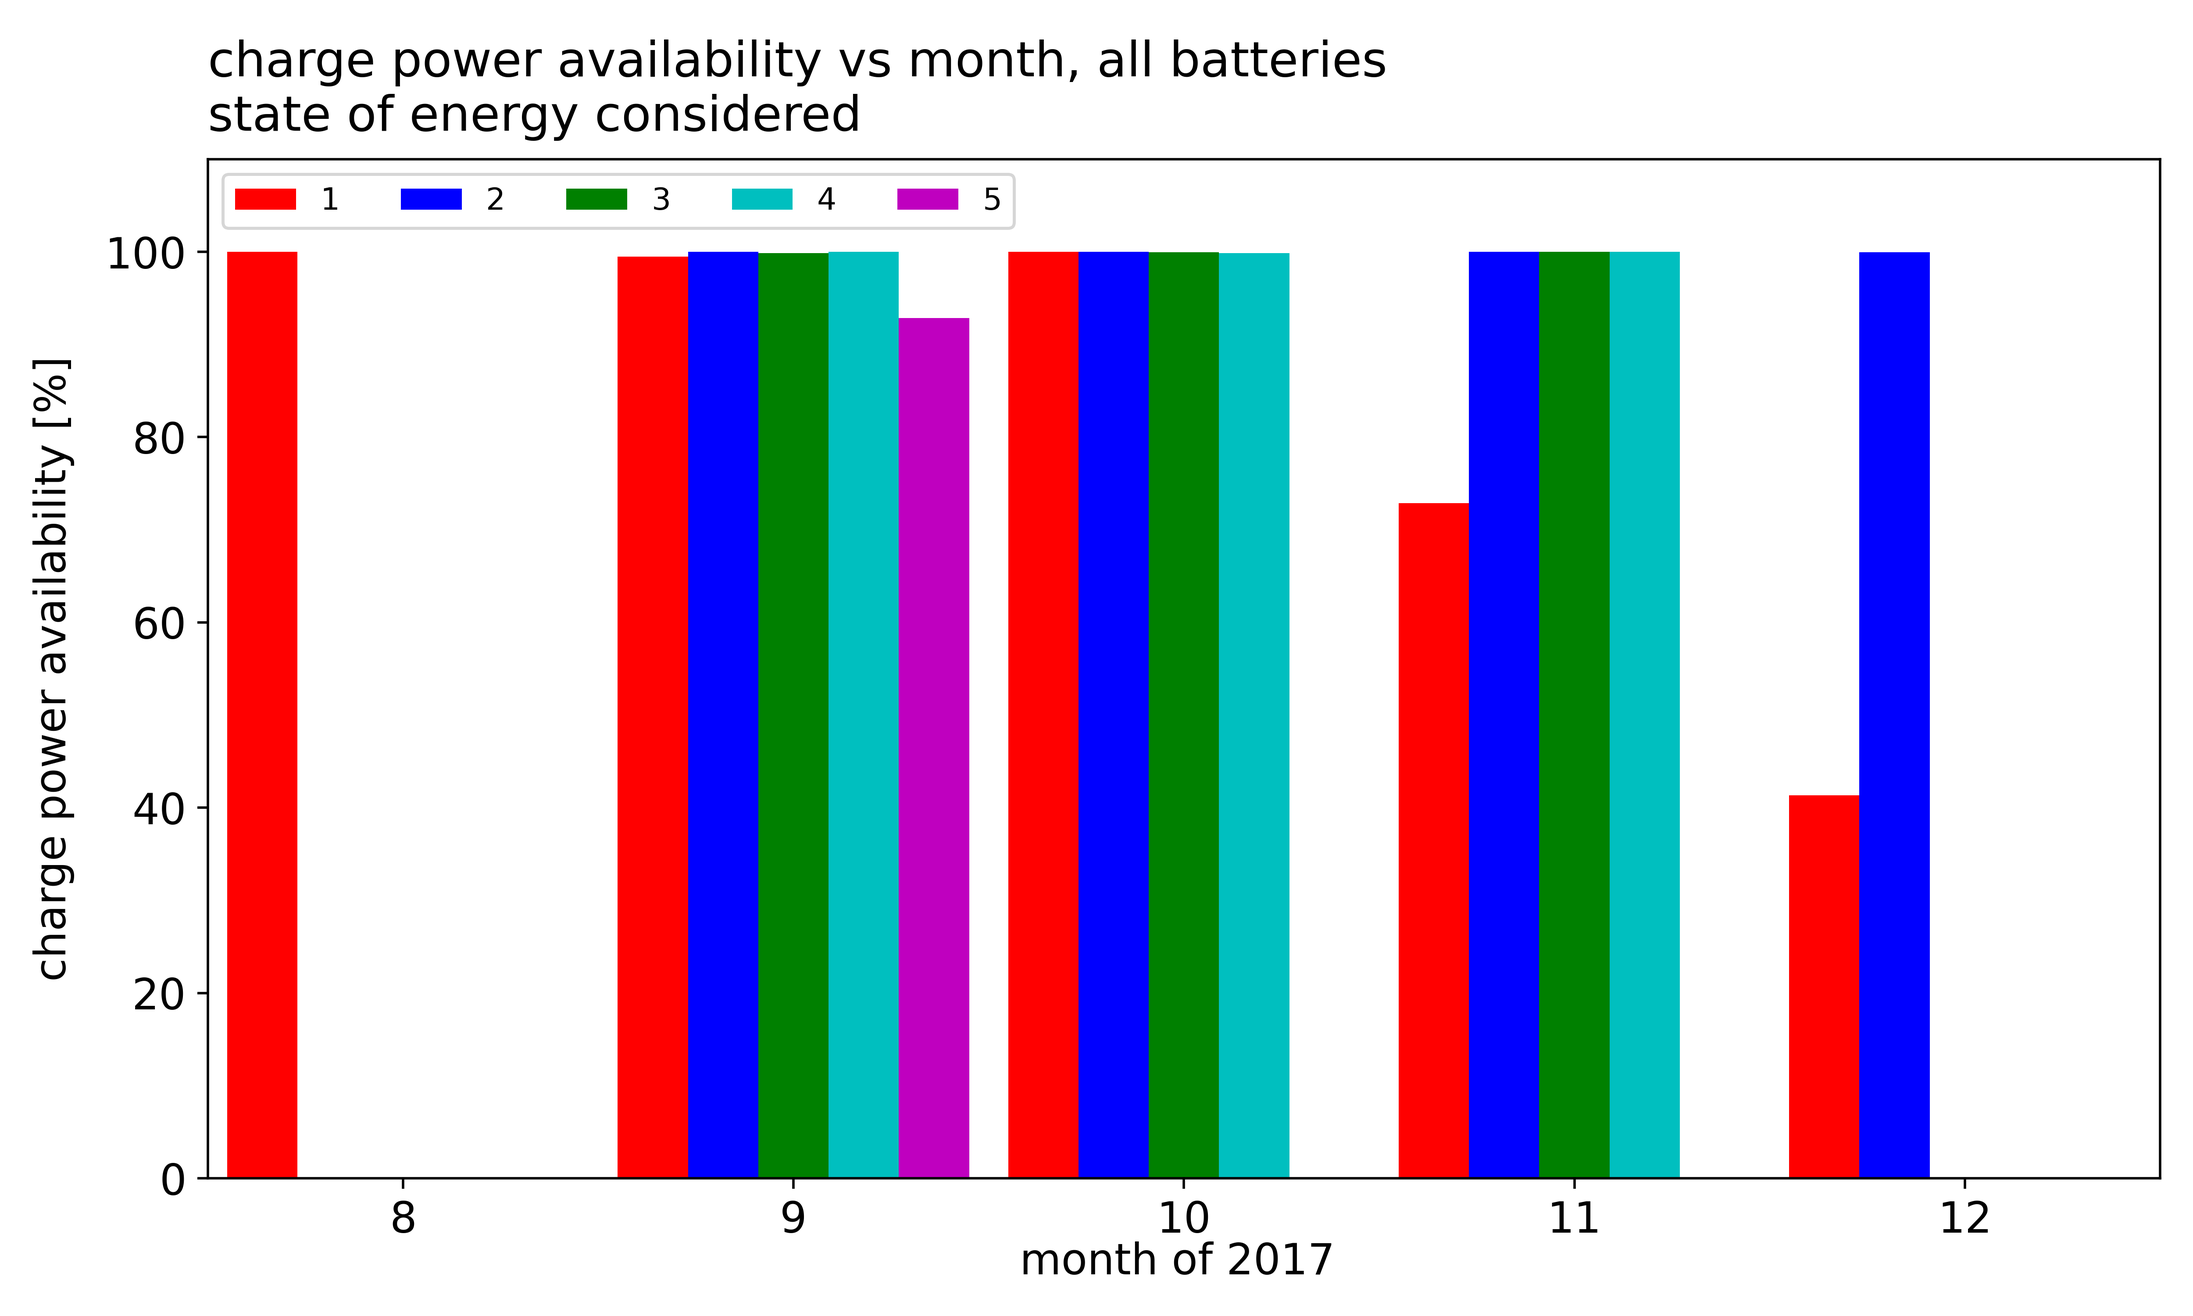
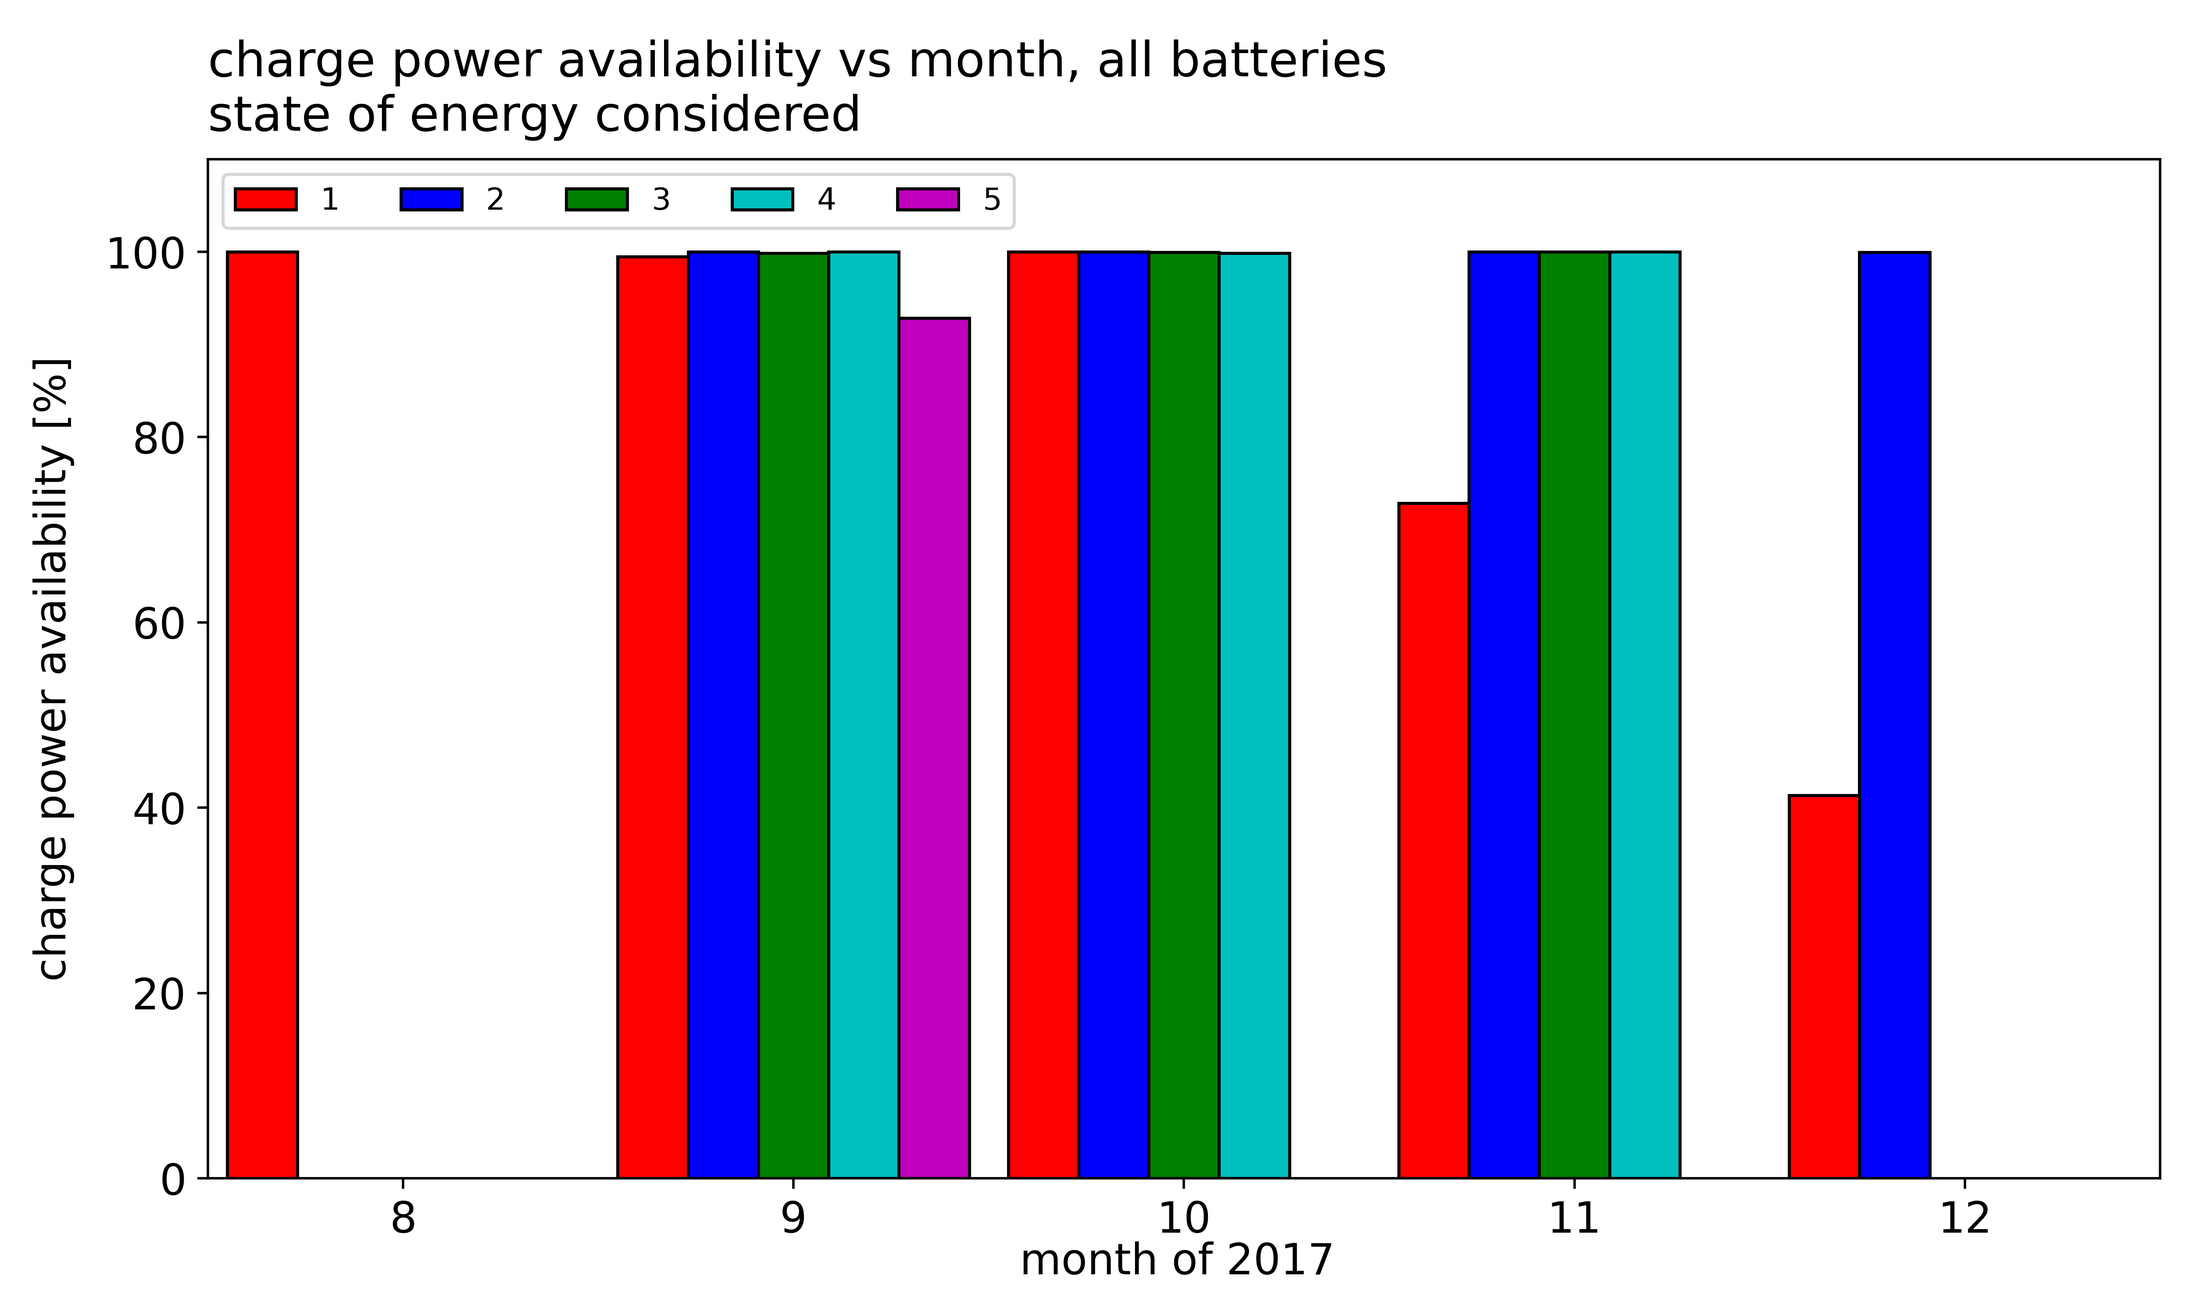
clean up code

diff --git a/src/battery_analysis.py b/src/battery_analysis.py
@@ -6,12 +6,6 @@ author: Craig Smith, craig.matthew.smith@gmail.com
 usage: ./src/run.sh n  where n is the number of batteries to analyze [1-5]
 repo: https://github.com/weathertrader/battery_charge
 '''
-# TO DO 
-# 1 hr  readme, including documentation on da and results and images
-# 1 hr  refactor and clean up 
-# 1 hr  run from cli using bash script
-
-
 
 import os
 import sys
@@ -31,6 +25,11 @@ matplotlib.use('Agg')
 
 def read_battery_file(input_file):
 
+    # data dictionary    
+    # energy_left      PW_EnergyRemaining  - energy left in batter [Wh]
+    # energy_full      PW_FullPackEnergyAvailable - total energy capacity of battery [Wh]
+    # charge_avail     PW_AvailableChargePower - max power capacity that battery can charge at this time [W]
+    
     # read data into empty arrays
     dt_epoch_energy_left = []
     dt_epoch_energy_full = []
@@ -39,49 +38,42 @@ def read_battery_file(input_file):
     energy_full = []
     charge_avail = []
     
-    # sys.maxsize
+    # initialize min and max dates 
     dt_epoch_min = sys.maxsize
     dt_epoch_max = -sys.maxsize
     
     batt_id = int(input_file.split('/')[1].split('.')[0])
     
-    # PW_EnergyRemaining  - energy left in batter [Wh]
     with open(input_file, "r", encoding="utf-8") as csv_read_file: # force utf-8 encoding 
         next(csv_read_file)
         for row in csv.reader(csv_read_file):
-            # here check number of entries per row
             n_fields = len(row)
-            #print ('%s n_fields found' %(n_fields))
-    
             # check that battery id never changes 
-            #print(row)
             if not int(row[0]) == batt_id:
                 print ('ERROR - battery id changed')
                 sys.exit()
+            # check that input data has correct number of fields
             if n_fields != 4:
                 print ('ERROR - incorrect number of fields in row %s ' %(row))
-                next(csv_read_file)
-                # sys.exit()
-                
+                next(csv_read_file)                
+            # check that variable is well defined
             field_read = row[2]
             if (field_read == ''):
-                    #print ('ERROR - missing data %s ' %(row))
                     next(csv_read_file)
-                    # sys.exit()
-            else:
-                    
+            else:                    
                 #check if this in in there already or not
                 #dt_epoch_energy_left
-                if (int(row[1])/1000 in dt_epoch_energy_left):
-                    print('error duplicated value1')
-                    sys.exit()
-                if (int(row[1])/1000 in dt_epoch_energy_full):
-                    print('error duplicated value2')
-                    sys.exit()
-                if (int(row[1])/1000 in dt_epoch_charge_avail):
-                    print('error duplicated value3')
-                    sys.exit()
+                #if (int(row[1])/1000 in dt_epoch_energy_left):
+                #    print('error duplicated value1')
+                #    sys.exit()
+                #if (int(row[1])/1000 in dt_epoch_energy_full):
+                #   print('error duplicated value2')
+                #   sys.exit()
+                #if (int(row[1])/1000 in dt_epoch_charge_avail):
+                #    print('error duplicated value3')
+                #    sys.exit()
                     
+                # accumulate data and timestamp into lists
                 if   field_read == 'PW_EnergyRemaining':
                     # may need to cast to int
                     dt_epoch_energy_left.append(int(row[1])/1000)
@@ -97,12 +89,13 @@ def read_battery_file(input_file):
                 if (int(row[1]) > dt_epoch_max):
                     dt_epoch_max = int(row[1])/1000
                 
-    # print(dt_epoch_min, dt_epoch_max)
+    # print start and end of data set
     dt_min = dt.fromtimestamp(dt_epoch_min)
     dt_max = dt.fromtimestamp(dt_epoch_max)
-    # calculate length of data set and expected number of records 
     # assume UTC for monthly roll ups 
     print('    dt range %s - %s ' %(dt_min.strftime('%Y-%m-%d %H:%M:%S'), dt_max.strftime('%Y-%m-%d %H:%M:%S')))
+
+    # calculate length of data set and expected number of records 
     reports_per_hour_expected = int(60/5) # reports every 5 min
     n_records_expected = (dt_max-dt_min).days * 24 * reports_per_hour_expected \
                        + int((dt_max-dt_min).seconds/3600 * reports_per_hour_expected)
@@ -116,24 +109,7 @@ def read_battery_file(input_file):
     df_energy_left  = pd.DataFrame(energy_left, index=dt_energy_left, columns =['energy_left'])         
     df_energy_full  = pd.DataFrame(energy_full, index=dt_energy_full, columns =['energy_full']) 
     df_charge_avail = pd.DataFrame(charge_avail, index=dt_charge_avail, columns =['charge_avail']) 
-
-    # df_energy_left.get_duplicates()
-    # drop duplicate values 
-    #df_energy_full[df_energy_full.index.duplicated(keep='first')]
-    #df_energy_full[df_energy_full.index.duplicated(keep='last')]
-    #df_energy_full[df_energy_full.index.duplicated(keep=False)]
-    #df_energy_left = df_energy_left.drop_duplicates(keep='first')
-    #df_energy_full = df_energy_full.drop_duplicates(keep='first')
-    #df_charge_avail = df_charge_avail.drop_duplicates(keep='first')
-    #df_energy_left = df_energy_left.drop_duplicates(keep=False)
-    #df_energy_full = df_energy_full.drop_duplicates(keep=False)
-    #df_charge_avail = df_charge_avail.drop_duplicates(keep=False)
-    
-    
-    #df_energy_left.drop_duplicates(keep=False, inplace=True)
-    #df_energy_full.drop_duplicates(keep=False, inplace=True)
-    #df_charge_avail.drop_duplicates(keep=False, inplace=True)
- 
+    # drop duplicate index entries, two values for a single timestamp     
     df_energy_left = df_energy_left.loc[~df_energy_left.index.duplicated(keep=False)]
     df_energy_full = df_energy_full.loc[~df_energy_full.index.duplicated(keep=False)]
     df_charge_avail = df_charge_avail.loc[~df_charge_avail.index.duplicated(keep=False)]
@@ -141,14 +117,6 @@ def read_battery_file(input_file):
     print('    records expected %s found %s %s %s ' %(n_records_expected, len(df_energy_left), len(df_energy_full), len(df_charge_avail)))
     print('    missing %5.2f percent of data ' %(100.0 - 100.0*min(len(df_energy_left), len(df_energy_full), len(df_charge_avail))/n_records_expected))
     
-    #df_energy_left = df_energy_left.loc[~df_energy_left.index.duplicated(keep='first')]
-    #df_energy_full = df_energy_full.loc[~df_energy_full.index.duplicated(keep='first')]
-    #df_charge_avail = df_charge_avail.loc[~df_charge_avail.index.duplicated(keep='first')]
-    
-    #df_energy_full[df_energy_full.index.duplicated(keep=False)]
-    #df_energy_left[df_energy_left.index.duplicated(keep=False)]
-    #df_charge_avail[df_charge_avail.index.duplicated(keep=False)]
-
     # move records to nearest 5 min time, here we assume that time offsets by 30s or 1 min 
     # can be treated as if they were at the same time 
     df_energy_left  = df_energy_left.resample('5min').fillna("pad", limit=1)
@@ -167,22 +135,11 @@ def read_battery_file(input_file):
         sys.exit()
 
     battery_df = df_energy_left.join(df_energy_full).join(df_charge_avail)
-    # len(battery_df)
-    #battery_df.head(20)
-    #battery_df.tail(20)
-    #  how='inner'
-
     # compute state of energy, soe = PW_EnergyRemaining / PW_FullPackEnergyAvailable
-    # soe > 90% is 'starting to get full'
     battery_df['soe'] = 100.0*battery_df['energy_left']/battery_df['energy_full']
-
     return battery_df
 
 def compute_data_availability(battery_df):
-
-    # count total valid records
-    n_records = len(battery_df)
-    n_valid_records = battery_df['charge_avail'].count()
 
     # compute month valid records    
     mo_df = pd.DataFrame(battery_df['soe'].resample("M").count())
@@ -194,11 +151,9 @@ def compute_data_availability(battery_df):
     # compute data availability vs month, rough estimate is fine for now
     n_records_expected_per_month = 30*24*12 # could use actual days per month instead 
     mo_df['data_availability'] = 100.0*mo_df['n_valid_records']/n_records_expected_per_month
-
     return mo_df
 
 def calc_charge_power_availability(battery_df):
-
     
     # compute charge availability with and w/o consideration of soe
     df0 = pd.DataFrame(battery_df[(battery_df['charge_avail'] <  3300.0)]['charge_avail'].resample("M").count())
@@ -217,19 +172,10 @@ def calc_charge_power_availability(battery_df):
                    .merge(df4, left_index=True, right_index=True, how='outer')
     cp_all_df.index = pd.DatetimeIndex(cp_all_df.index).month
     del df0, df1, df2, df3, df4    
-
-    # merge mo_df to cp_all    
-    # cp_all_df = cp_all_df.merge(mo_df, left_index=True, right_index=True, how='outer')
-    
-    cp_all_df.head()
-    
-    # list(cp_all_df)
     
     cp_all_df['cp_not_avail_soe_full'] = cp_all_df['cp_not_avail_soe_full'].fillna(0)
     cp_all_df['cp_not_avail_soe_not_full'] = cp_all_df['cp_not_avail_soe_not_full'].fillna(0)
-
     return cp_all_df
-
 
 def analyze_batteries(n_files):
     
@@ -261,111 +207,75 @@ def analyze_batteries(n_files):
         cp_avail_soe_not_cons = 100.0*cp_all_df['cp_avail_soe_n_cons'] / (cp_all_df['cp_avail_soe_n_cons'] + cp_all_df['cp_not_avail_soe_n_cons'])    
         # monthly charge power availability excluding soe > 90.0, battery getting full
         cp_avail_soe_cons = 100.0*cp_all_df['cp_avail_soe_either'] / (cp_all_df['cp_avail_soe_either'] + cp_all_df['cp_not_avail_soe_not_full'])
-
-        # assert all data sets contains the same months assumed    
-        # n_mo_read = cp_all_df.index[-1] - cp_all_df.index[0]
-        # if not (list(cp_all_df.index) == list(mo_axis)):
-        #     print('ERROR - months dont match expected')
-        #    sys.exit()
             
-        # accumulate individual batteries statistics into an array at appropiate month location
+        # accumulate individual batteries statistics into an array at matching month indices
         cp_avail_soe_not_cons_n[cp_all_df.index[0]-1:cp_all_df.index[-1],n] = cp_avail_soe_not_cons
         cp_avail_soe_cons_n[cp_all_df.index[0]-1:cp_all_df.index[-1],n] = cp_avail_soe_cons
         da_n[mo_df.index[0]-1:mo_df.index[-1],n] = mo_df['data_availability']
         
 
     # plot the data 
-
     dpi_level = 500
-    
-    # single bar plot
-    n = 0    
-    
     [mo_min, mo_max, mo_int] = [7, 13, 1]
     mo_ticks = np.arange(mo_min, mo_max, mo_int)
-    [mo_min_plot, mo_max_plot] = [7.5, 12.5]
-    
+    [mo_min_plot, mo_max_plot] = [7.5, 12.5]    
     [y_min, y_max, y_int] = [0, 110, 20]
     y_ticks = np.arange(y_min, y_max, y_int)
+    colors = ['r', 'b', 'g', 'c', 'm']
+    bar_width = 0.18
     
-    
+    n = 0    
+    # single battery bar plot, no soe considered        
     fig_num = 101 
     fig = plt.figure(num=fig_num,figsize=(10,6)) 
-    plt.clf() 
-    
-    #plt.subplot(2, 1, 1)
+    plt.clf()     
     plt.bar(mo_axis, cp_avail_soe_not_cons_n[:,n], color='k', linestyle='-', width=0.8)
-    #plt.bar(r_axis, bias_ws_s_h_r , color=colors_r, linestyle='-', width=0.8)
-    # rects1 = ax.bar(ind, menMeans, width, color='r', yerr=menStd)
-    #plt.plot([0.0, n_runs+1], [ 0, 0],  'gray', linestyle='-', linewidth=0.5, marker='o', markersize=0) 
-    #plt.legend(loc=2,fontsize=12,ncol=1)
     plt.title('charge power availability vs month, battery '+str(n+1)+'\nstate of energy not considered', \
-         fontsize=16,  x=0.0, y=1.01, horizontalalignment='left') 
-    
+         fontsize=16,  x=0.0, y=1.01, horizontalalignment='left')     
     plt.xticks(mo_ticks, fontsize=14) 
     plt.xlim([mo_min_plot, mo_max_plot]) 
-    #ax.set_xticklabels(stn_id, rotation='vertical')
     plt.yticks(y_ticks, fontsize=14)    
     plt.ylim([y_min, y_max]) 
     plt.xlabel('month of 2017 ',fontsize=14,labelpad=00) 
-    plt.ylabel('charge power availability [%]',fontsize=14,labelpad=10)
-    
+    plt.ylabel('charge power availability [%]',fontsize=14,labelpad=10)    
     filename = 'battery_charge1.png' 
     plot_name = os.path.join('images', filename)
     plt.savefig(plot_name, dpi=dpi_level)
     
+    # single battery bar plot, soe considered
     fig_num = 102
     fig = plt.figure(num=fig_num,figsize=(10,6)) 
     plt.clf() 
-    
-    #plt.subplot(2, 1, 1)
     plt.bar(mo_axis, cp_avail_soe_cons_n[:,n], color='k', linestyle='-', width=0.8)
-    #plt.bar(r_axis, bias_ws_s_h_r , color=colors_r, linestyle='-', width=0.8)
-    # rects1 = ax.bar(ind, menMeans, width, color='r', yerr=menStd)
-    #plt.plot([0.0, n_runs+1], [ 0, 0],  'gray', linestyle='-', linewidth=0.5, marker='o', markersize=0) 
-    #plt.legend(loc=2,fontsize=12,ncol=1)
     plt.title('charge power availability vs month, battery '+str(n+1)+'\nstate of energy considered', \
-         fontsize=16,  x=0.0, y=1.01, horizontalalignment='left') 
-    
+         fontsize=16,  x=0.0, y=1.01, horizontalalignment='left')     
     plt.xticks(mo_ticks, fontsize=14) 
     plt.xlim([mo_min_plot, mo_max_plot]) 
-    #ax.set_xticklabels(stn_id, rotation='vertical')
     plt.yticks(y_ticks, fontsize=14)    
     plt.ylim([y_min, y_max]) 
     plt.xlabel('month of 2017 ',fontsize=14,labelpad=00) 
-    plt.ylabel('charge power availability [%]',fontsize=14,labelpad=10)
-    
+    plt.ylabel('charge power availability [%]',fontsize=14,labelpad=10)    
     filename = 'battery_charge2.png' 
     plot_name = os.path.join('images', filename)
     plt.savefig(plot_name, dpi=dpi_level)
-    
-    
-    colors = ['r', 'b', 'g', 'c', 'm']
-    bar_width = 0.18
-    
+        
+    # all batteries bar plot, soe considered
     fig_num = 103
     fig = plt.figure(num=fig_num,figsize=(10,6)) 
     plt.clf() 
     for n in range(0, n_files):
-        plt.bar(mo_axis+(n-2)*bar_width, cp_avail_soe_cons_n[:,n], color=colors[n], label=str(n+1), linestyle='-', width=bar_width)
-    
-    #plt.legend(loc=2,fontsize=10) 
-    plt.legend(loc=2,fontsize=10,ncol=n_files) 
-    
+        plt.bar(mo_axis+(n-2)*bar_width, cp_avail_soe_cons_n[:,n], color=colors[n], label=str(n+1), linestyle='-', width=bar_width, edgecolor='k')    
+    plt.legend(loc=2,fontsize=10,ncol=n_files)
     plt.title('charge power availability vs month, all batteries \nstate of energy considered', \
-         fontsize=16,  x=0.0, y=1.01, horizontalalignment='left') 
-    
+         fontsize=16,  x=0.0, y=1.01, horizontalalignment='left')     
     plt.xticks(mo_ticks, fontsize=14) 
     plt.xlim([mo_min_plot, mo_max_plot]) 
-    #ax.set_xticklabels(stn_id, rotation='vertical')
     plt.yticks(y_ticks, fontsize=14)    
     plt.ylim([y_min, y_max]) 
     plt.xlabel('month of 2017 ',fontsize=14,labelpad=00) 
-    plt.ylabel('charge power availability [%]',fontsize=14,labelpad=10)
-    
+    plt.ylabel('charge power availability [%]',fontsize=14,labelpad=10)    
     fig.tight_layout()
-    plt.show()
-    
+    plt.show()    
     filename = 'battery_charge3.png' 
     plot_name = os.path.join('images', filename)
     plt.savefig(plot_name, dpi=dpi_level)
@@ -374,34 +284,5 @@ if __name__ == "__main__":
     n_files  = int(sys.argv[1])
     print('processing %s files' %(n_files))
     analyze_batteries(n_files)
-
-
-
-
-
-# battery_serial,timestamp,signal_name,signal_value
-# energy_left      PW_EnergyRemaining  - energy left in batter [Wh]
-# energy_full      PW_FullPackEnergyAvailable - total energy capacity of battery [Wh]
-# charge_avail     PW_AvailableChargePower - max power capacity that battery can charge at this time [W]
-# PW_AvailableChargePower = 3300 W except when it derates
-
-# flags to aid in manual debugging inside and IDE/Ipython console
-#manual_debug = True
-# manual_debug = False
-    
-# print ('setting input and output file names ')
-# if (manual_debug): # manually set input and output files for debugging in Ipython or IDE
-#     base_dir = os.getcwd()
-#     base_dir = '/home/craigmatthewsmith/consumer_complaints_cs'
-#     os.chdir(base_dir)
-#     input_file  = os.path.join(base_dir,'input','consumer_complaints.csv')
-#     output_file = os.path.join(base_dir,'output','report.csv')
-# else:
-#     input_file  = sys.argv[1]
-#     output_file = sys.argv[2]
-# print('using input  file %s ' %(input_file))
-# print('using output file %s ' %(output_file))
-
-
 
 

diff --git a/README.md b/README.md
@@ -21,11 +21,11 @@ it's ability to receive a charge, and those points should be excluded from the a
 ## Dataset 
 
 Data consists of time series of battery variables over roughly 4 months of 2017 with the following variables: 
-'''
+```
 pW_EnergyRemaining  - energy left in battery [Wh]
 PW_FullPackEnergyAvailable - total energy capacity of battery [Wh]
 PW_AvailableChargePower - max power capacity that battery can charge at this time [W]
-'''
+```
 Available charge power is expected to be 3300 W or greater except when it derates.
 State of energy (soe) battery is defined as energy remaining over full energy 
 (PW_EnergyRemaining / PW_FullPackEnergyAvailable), and is considered to be full when 
